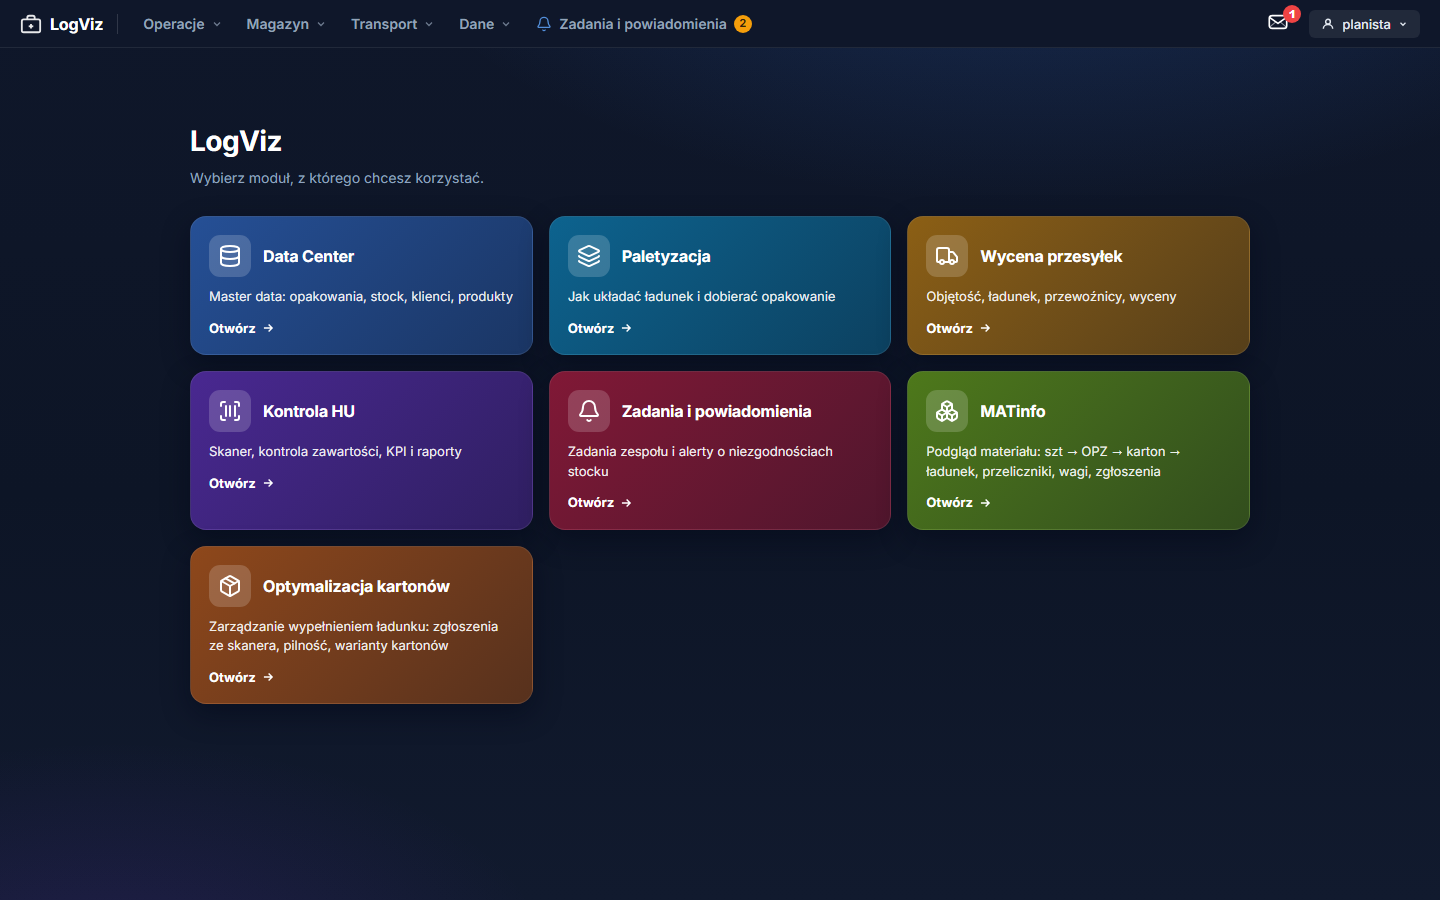
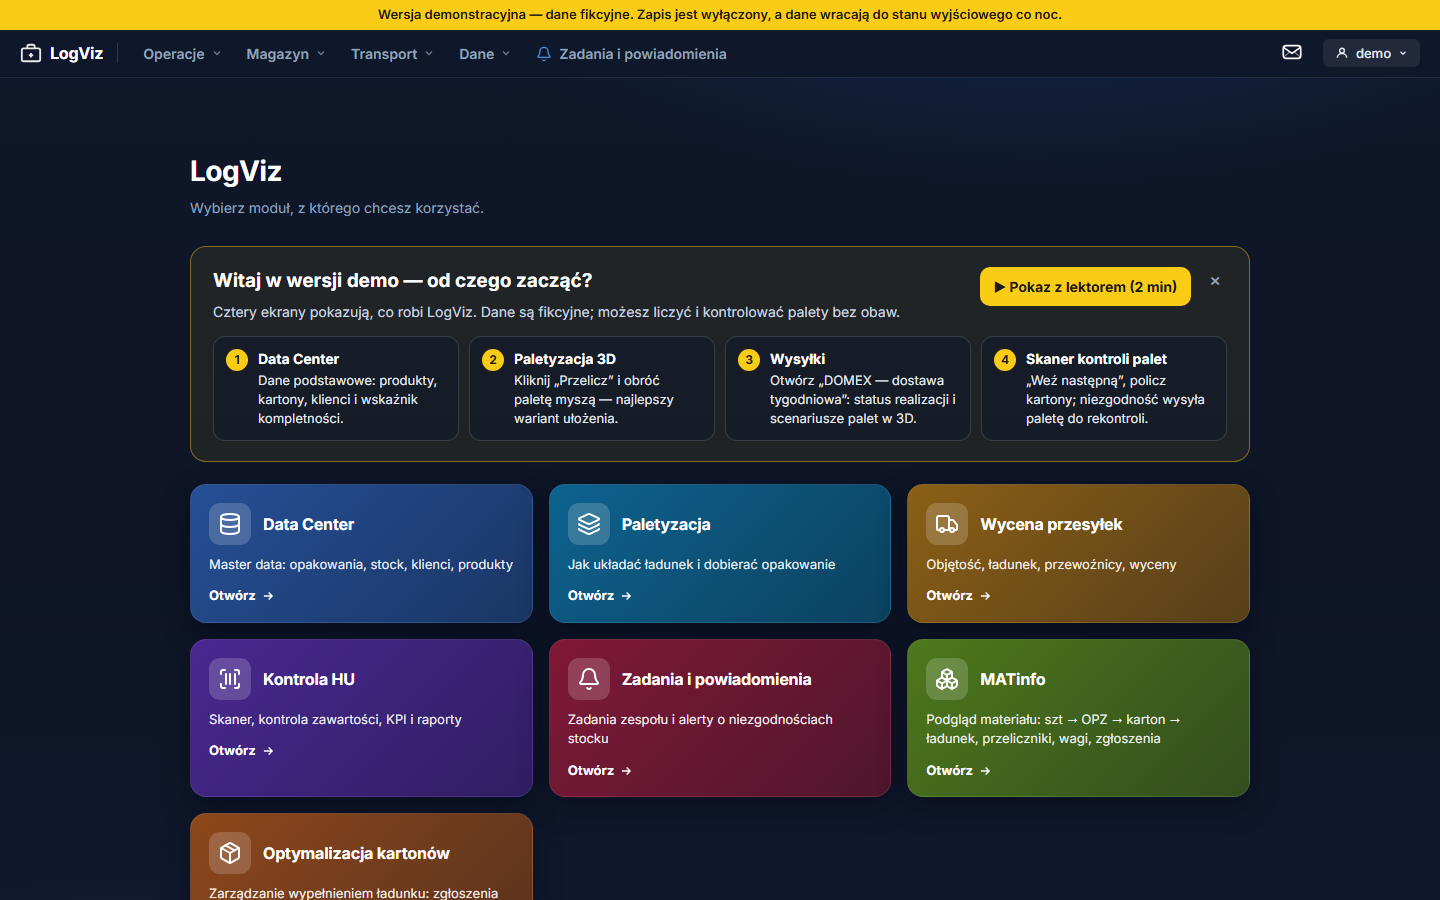
fix(demo): wiadomości tylko do odczytu zamiast 403; zrzuty huba demo
Przejście 175 stron z konta demo: 0 błędów 500/404; jedyny ślepy zaułek to
ikona wiadomości w menu (403). Instancja demo ma tylko fikcyjnych ludzi,
więc czytanie zostaje, a wysyłkę blokuje reguła zapisów.

Claude-Session: https://claude.ai/code/session_01DxZKcwX87mViy8U7C21XUP

diff --git a/web/core/demo.py b/web/core/demo.py
@@ -3,7 +3,7 @@
 Konto DEMO_USER widzi moduły jak planista/lider, ale nie może niczego trwale zepsuć:
 - zapis (POST/PUT/PATCH/DELETE) jest zablokowany poza SAFE_WRITES — przeliczenia i przepływ
   skanera, które `manage.py seed_demo --reset` i tak cofa co noc,
-- ekrany konta i administracji (zmiana hasła, wiadomości do ludzi, admin) są zamknięte,
+- ekrany konta i administracji (zmiana hasła, admin) są zamknięte, a wiadomości tylko do odczytu,
   żeby jeden odwiedzający nie zablokował wspólnego konta innym.
 Bez DEMO_MODE moduł nic nie robi — zwykła instancja działa bez zmian."""
 from django.conf import settings
@@ -29,7 +29,8 @@ SAFE_WRITES = frozenset({
     "hu_control_confirm_reqs", "hu_control_ack_short_dated", "hu_control_assign",
 })
 # Ścieżki zamknięte dla konta demo także do odczytu.
-BLOCKED_PREFIXES = ("/haslo/", "/wiadomosc/", "/admin", "/password-reset/")
+BLOCKED_PREFIXES = ("/haslo/", "/admin", "/password-reset/")
+# Wiadomości: czytanie zostaje (ikona w menu nie prowadzi w 403), wysyłkę blokuje reguła zapisów.
 
 
 def is_demo_user(user):

diff --git a/web/ui/tests/test_demo_recruiter.py b/web/ui/tests/test_demo_recruiter.py
@@ -124,10 +124,15 @@ class ReadOnlyMiddlewareTests(TestCase):
 
     @override_settings(**DEMO)
     def test_account_screens_closed_even_for_reading(self):
-        for path in ("/haslo/zmien/", "/wiadomosc/", "/admin/", "/admin-panel/users/"):
+        for path in ("/haslo/zmien/", "/admin/", "/admin-panel/users/"):
             with self.subTest(path=path):
                 with self.assertRaises(PermissionDenied):
                     self.mw(self._req("get", path, self.demo))
+
+    @override_settings(**DEMO)
+    def test_messages_readable_but_not_sendable(self):
+        self.assertEqual(self.mw(self._req("get", "/wiadomosc/", self.demo)).content, b"ok")
+        self.assertEqual(self.mw(self._req("post", "/wiadomosc/", self.demo)).status_code, 302)
 
     @override_settings(**DEMO)
     def test_other_users_unaffected(self):

diff --git a/docs/screenshots/README.md b/docs/screenshots/README.md
@@ -5,7 +5,8 @@ Materiały wizualne do [README](../../README.md). Film: [`../video/logviz-demo.m
 | Plik | Co pokazuje | Status |
 |---|---|---|
 | `demo.gif` | Fragment filmu (18 s): skaner — weź następną → liczenie pozycji → niezgodność → status „do rekontroli” | gotowe |
-| `hub.png` | Hub modułów po zalogowaniu (kafelki zależne od roli) | gotowe |
+| `hub.png` | Hub konta demo: baner, karta powitalna (4 kroki + pokaz z lektorem), kafelki modułów | gotowe |
+| `demo-logowanie.png` | Ekran logowania instancji demo z przyciskiem „Wejdź jako demo” | gotowe |
 | `data-center-importy.png` | Data Center — centrum importów (szablony + wgranie pliku) | gotowe |
 | `panel-lidera.png` | Panel lidera: zmiana na żywo, rekontrola przydzielona innemu kontrolerowi | gotowe |
 | `paletyzacja-3d.png` | Kalkulator paletyzacji — najlepszy wariant w 3D, waga, środek ciężkości | gotowe |

diff --git a/README.md b/README.md
@@ -29,7 +29,7 @@ powiadomienia żyją w aplikacji, a paleta z błędem trafia do rekontroli, któ
 
 ## Ekrany
 
-| Hub modułów (zależny od roli) | Paletyzacja 3D |
+| Hub konta demo: 4 kroki „od czego zacząć” | Paletyzacja 3D |
 |---|---|
 | ![Hub modułów](docs/screenshots/hub.png) | ![Kalkulator paletyzacji 3D](docs/screenshots/paletyzacja-3d.png) |
 | **Data Center — centrum importów** | **Panel lidera — rekontrole** |
@@ -123,7 +123,7 @@ wysyłki, produkty i klientów.
 
 Konto demo ma role Master Data, Transport, Kontrola HU i Lider kontroli, ale bez Administratorów.
 Middleware (`web/core/demo.py`) blokuje mu każdy zapis poza przeliczeniem palety i przepływem
-skanera. Zmiana hasła, wiadomości i panel administracyjny zwracają 403.
+skanera. Wiadomości są tylko do odczytu, a zmiana hasła i panel administracyjny zwracają 403.
 
 ### Docker (konfiguracja produkcyjna)
 
